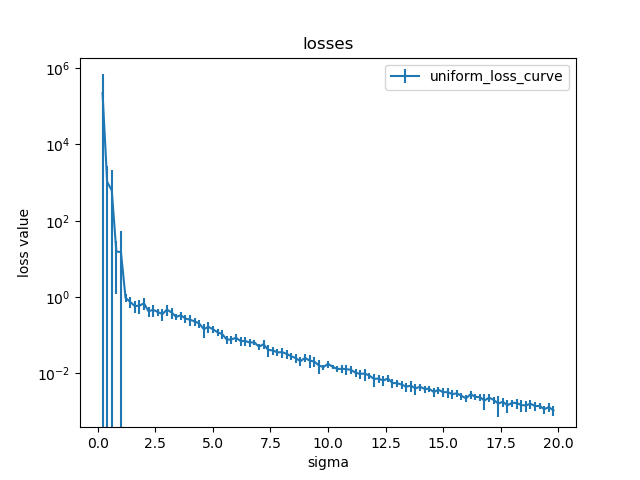
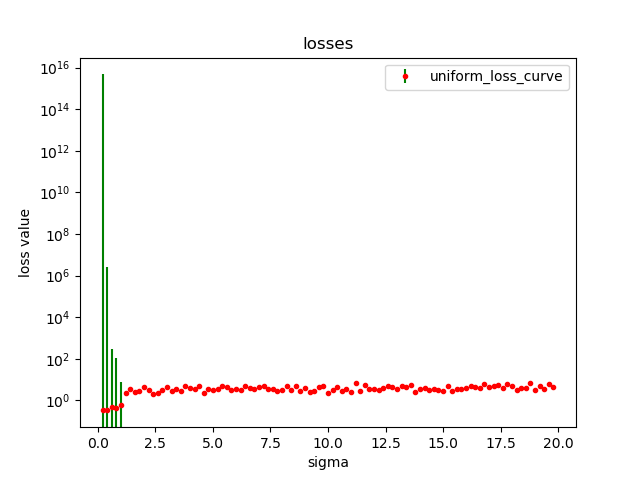
updated uniform and heuristic basic loss tests

diff --git a/basic_loss_plots.py b/basic_loss_plots.py
@@ -22,29 +22,69 @@ def get_uniform_test_funcs(sigma, normal_data):
     return test_funcs, expected_moments
 
 
-def main():
-    normal_data = sample_normal_distribution_with_different_kurtosis(alpha=1.0, dim=OUTPUT_DIM, batch_size=NORMAL_POINTS_NUM)
-    curves_list = []
-    # uniform
-    uniform_possible_sigma = np.arange(0.0, 20, 0.2)
-    uniform_sigma = []
-    uniform_loss = []
-    uniform_std = []
-    for sigma in uniform_possible_sigma:
+def get_normal_heuristics_test_funcs(scale_factor, normal_data):
+    test_funcs = []
+    grid = sample_normal_distribution_with_different_kurtosis(alpha=1.5, dim=OUTPUT_DIM, batch_size=TRAINING_BATCH_SIZE)
+    expected_moments = np.empty(len(grid))
+    for i, point in enumerate(grid):
+        sigma = normal_sigma_generator_heuristic(point, scale_factor)
+        test_funcs.append((point, sigma))
+        normal_expected_moment = np_calc_moment(normal_data, point, sigma)
+        expected_moments[i] = normal_expected_moment
+    return test_funcs, expected_moments
+
+
+def generate_grid_loss_curve(grid_type, normal_data):
+    if grid_type == "uniform":
+        possible_sigma = np.arange(0.0, 20, 0.2)
+    elif grid_type == "normal_heuristic":
+        # Note that here it is a scale factor and not directly sigma
+        possible_sigma = np.append(np.arange(0.0, 2.9, 0.1), np.arange(3.0, 20.0, 0.5))
+    else:
+        print("we currently have only uniform and normal heuristics grids")
+        exit(1)
+
+    sigma_list = []
+    loss_list = []
+    std_list = []
+    for sigma in possible_sigma:
+        print(sigma)
         cur_sigma_uniform_loss = []
         if sigma == 0:
             continue
-        test_funcs, expected_moments = get_uniform_test_funcs(sigma, normal_data)
+        if grid_type == "uniform":
+            test_funcs, expected_moments = get_uniform_test_funcs(sigma, normal_data)
         for i in range(RUNNING_REPITITIONS):
+            if grid_type == "normal_heuristic":
+                test_funcs, expected_moments = get_normal_heuristics_test_funcs(sigma, normal_data)
             high_kurtosis_data = sample_normal_distribution_with_different_kurtosis(alpha=1.5, dim=OUTPUT_DIM, batch_size=TRAINING_BATCH_SIZE)
             cur_sigma_uniform_loss.append(normalized_np_moments_loss(high_kurtosis_data, test_funcs, expected_moments))
-        uniform_sigma.append(sigma)
+        sigma_list.append(sigma)
         mean_sigma_uniform_loss = np.mean(cur_sigma_uniform_loss)
-        uniform_loss.append(mean_sigma_uniform_loss)
+        loss_list.append(mean_sigma_uniform_loss)
         std_sigma_uniform_loss = np.std(cur_sigma_uniform_loss)
-        uniform_std.append(std_sigma_uniform_loss)
-    curves_list.append((uniform_sigma, uniform_loss, uniform_std, "uniform_loss_curve"))
+        std_list.append(std_sigma_uniform_loss)
 
+        loss_list[-1] /= std_sigma_uniform_loss
+
+    return (sigma_list, loss_list, std_list, grid_type + "_loss_curve")
+
+
+def main():
+    print("----------------------------------------Generating Basic loss plot----------------------------------------")
+    normal_data = sample_normal_distribution_with_different_kurtosis(alpha=1.0, dim=OUTPUT_DIM, batch_size=NORMAL_POINTS_NUM)
+    curves_list = []
+
+    print("------------------------------Generating Uniform loss plot------------------------------")
+    curves_list.append(generate_grid_loss_curve("uniform", normal_data))
+
+    # print("------------------------------Generating Normal loss plot------------------------------")
+    # curves_list.append(generate_grid_loss_curve("normal_heuristic", normal_data))
+    #
+    # print("------------------------------Generating Normal loss plot------------------------------")
+    # curves_list.append(generate_grid_loss_curve("normal_heuristic", normal_data))
+
+    print("------------------------------Drawing Normal loss plot------------------------------")
     plot_graph(curves_list, "losses", "sigma", "loss value")
 
 

diff --git a/utils.py b/utils.py
@@ -28,13 +28,23 @@ def plot_graph(curves_list, title, x_label, y_label, axis=False, x_min=None, x_m
     plt.ylabel(y_label)
     plt.yscale('log')
     for (curve_x, curve_y, std, label) in curves_list:
-        plt.errorbar(curve_x, curve_y, std, label=label)
+        plt.errorbar(curve_x, curve_y, std, fmt='ro', label=label, ecolor='green', markersize=3)
+        # plt.plot(curve_x, curve_y, 'ro', label=label, markersize=3)
+        # plt.plot(curve_x, curve_y, 'ro', label=label)
         if axis:
             plt.axis([x_min, x_max, y_min, y_max])
     plt.legend(loc="upper right")
     plt.savefig(title)
     plt.show()
     plt.clf()
+
+
+def np_calc_moment(sampled_data, mu, sigma):
+    x = sampled_data - mu
+    x = np.sum(np.multiply(x, x), axis=1)
+    x = np.divide(x, 2 * (sigma**2))
+    x = np.exp(-x)
+    return np.mean(x, axis=0)
 
 
 def np_calc_moment(sampled_data, mu, sigma):
@@ -52,8 +62,8 @@ def normalized_np_moments_loss(sampled_data, test_funcs, expected_moments):
     loss = 0
     for i in range(len(test_funcs)):
         loss += np.math.pow((np_calc_moment(sampled_data, test_funcs[i][0], test_funcs[i][1]) - expected_moments[i])/expected_moments[i], 2)
-        if loss >= 100:
-            print("wow")
+        # if loss >= 100:
+        #     print("wow")
     return loss
 
 
@@ -67,3 +77,9 @@ def get_uniform_grid(total_points, radius):
         for y in grid_y:
             grid.append((x, y))
     return grid
+
+
+def normal_sigma_generator_heuristic(mu, scale_factor):
+    sigma = (np.math.pow(np.linalg.norm(mu), 2) * scale_factor) + 0.05
+    return sigma
+
